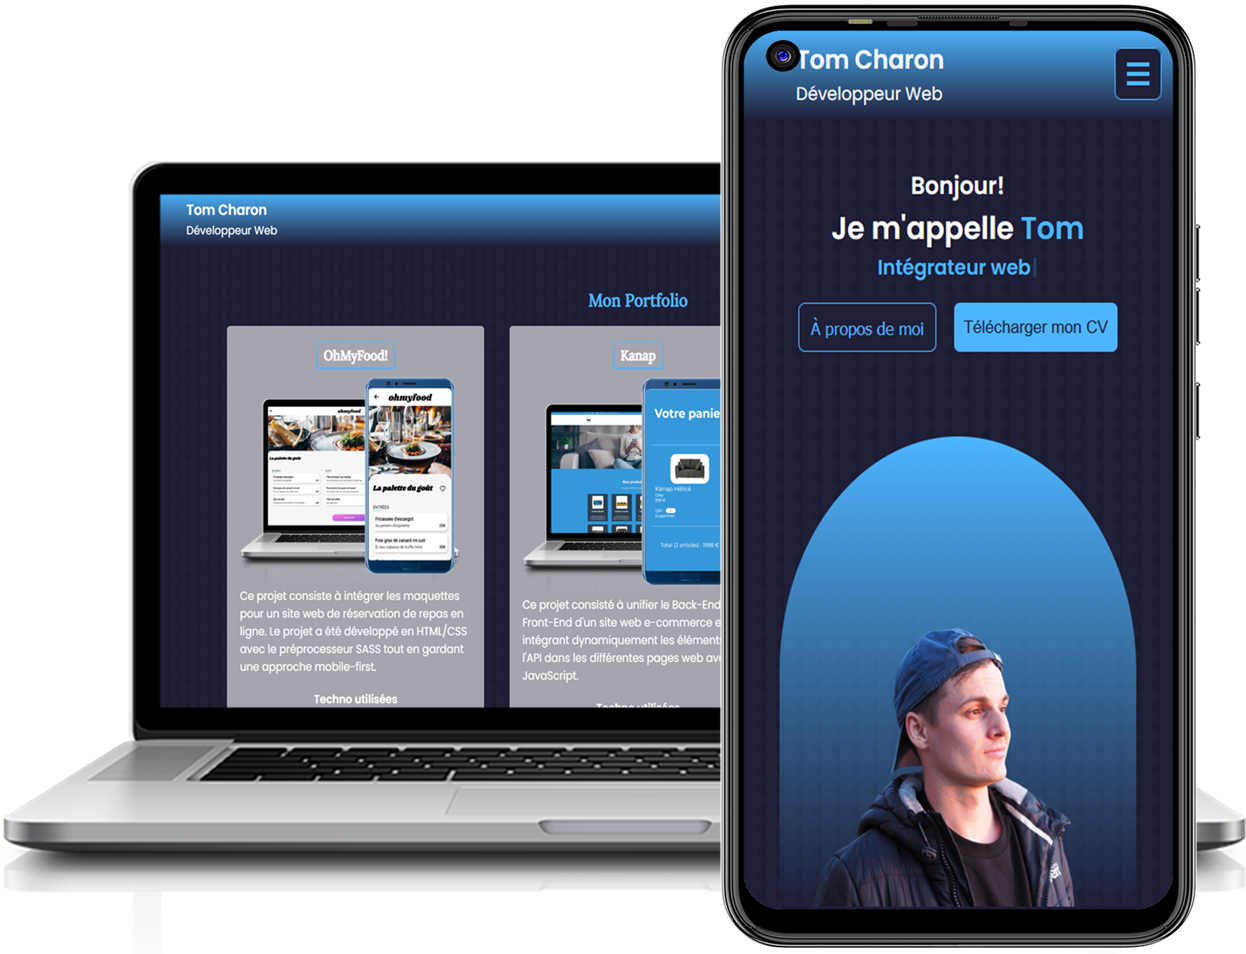
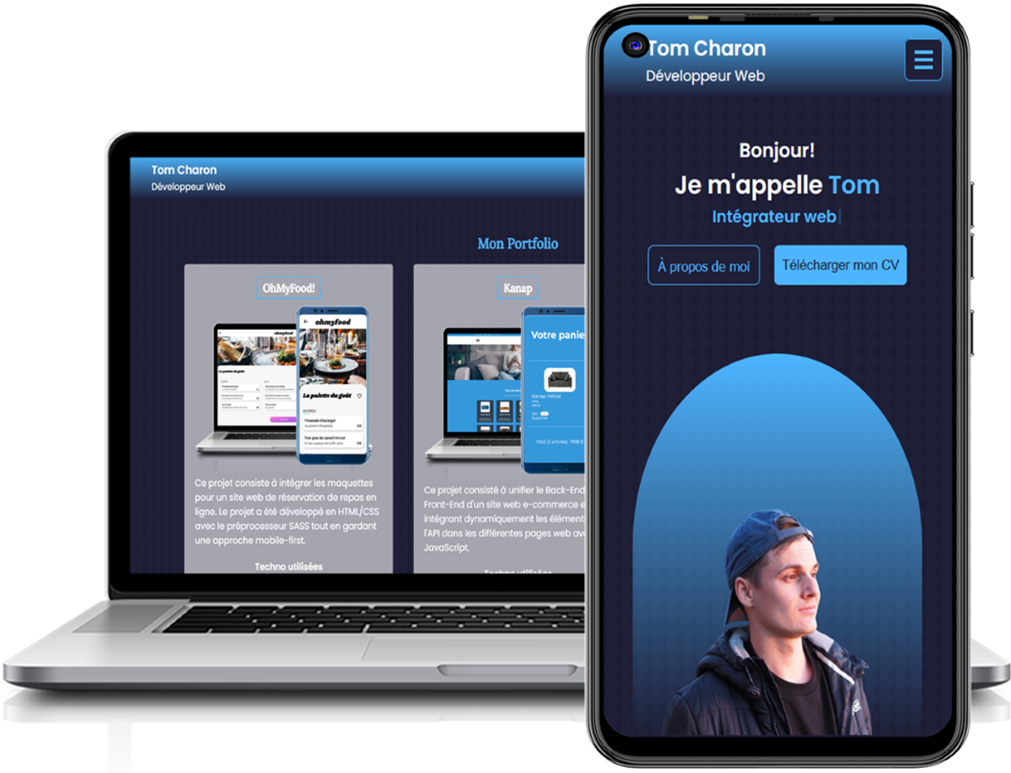
resize pics

diff --git a/src/sections/Skills.jsx b/src/sections/Skills.jsx
@@ -6,6 +6,7 @@ import logoCSS from "../assets/logos/css.png";
 import logoJS from "../assets/logos/js.png";
 import logoSass from "../assets/logos/sass.png";
 import logoTailwind from "../assets/logos/tailwindCSS.png";
+import logoBootstrap from "../assets/logos/bootstrap.png";
 import logoNodeJS from "../assets/logos/nodejs.png";
 import logoMongo from "../assets/logos/mongoDB.png";
 import logoPostman from "../assets/logos/postman.png";
@@ -29,16 +30,13 @@ function Skills() {
                 className="flex flex-wrap justify-center items-start gap-2.5 lg:gap-5"
                 data-aos="fade-up"
               >
-                <SkillCards name={"React"} logo={logoReact} score={4} />
-                <SkillCards name={"HMTL"} logo={logoHTML} score={5} />
-                <SkillCards name={"CSS"} logo={logoCSS} score={5} />
-                <SkillCards name={"JavaScript"} logo={logoJS} score={4} />
-                <SkillCards name={"Sass"} logo={logoSass} score={5} />
-                <SkillCards
-                  name={"TailwindCSS"}
-                  logo={logoTailwind}
-                  score={4}
-                />
+                <SkillCards name="HMTL" logo={logoHTML} score={5} />
+                <SkillCards name="CSS" logo={logoCSS} score={5} />
+                <SkillCards name="JavaScript" logo={logoJS} score={4} />
+                <SkillCards name="React" logo={logoReact} score={4} />
+                <SkillCards name="Sass" logo={logoSass} score={5} />
+                <SkillCards name="TailwindCSS" logo={logoTailwind} score={4} />
+                <SkillCards name="Bootstrap" logo={logoBootstrap} score={4} />
               </div>
             </div>
             <div className="flex flex-col bg-skill-stack p-4 gap-y-5 rounded-lg ">

diff --git a/src/components/SwitchLanguage.jsx b/src/components/SwitchLanguage.jsx
@@ -14,7 +14,7 @@ export default function SwitchLanguage() {
       value={language}
       onChange={switchAndRefresh}
       className="bg-dark-switch dark:bg-bgLightMode font-primary text-sm dark:text-secondary rounded-2xl h-[26px] w-[50px] input {
-        focus:outline-none
+        focus:outline-none pl-1
       } "
     >
       <option className="text-sm">FR</option>

diff --git a/src/components/SkillCards.jsx b/src/components/SkillCards.jsx
@@ -11,7 +11,7 @@ function SkillCards({ logo, score, name }) {
         <img
           src={logo}
           alt="logo's technos"
-          className="h-[50px] w-[50px]  lg:h-[80px] lg:w-[80px]"
+          className="h-[50px] w-[50px]  lg:h-[80px] lg:w-[80px] rounded-full"
         />
       </div>
       <div className="text-[12px] lg:text-base">{name}</div>
